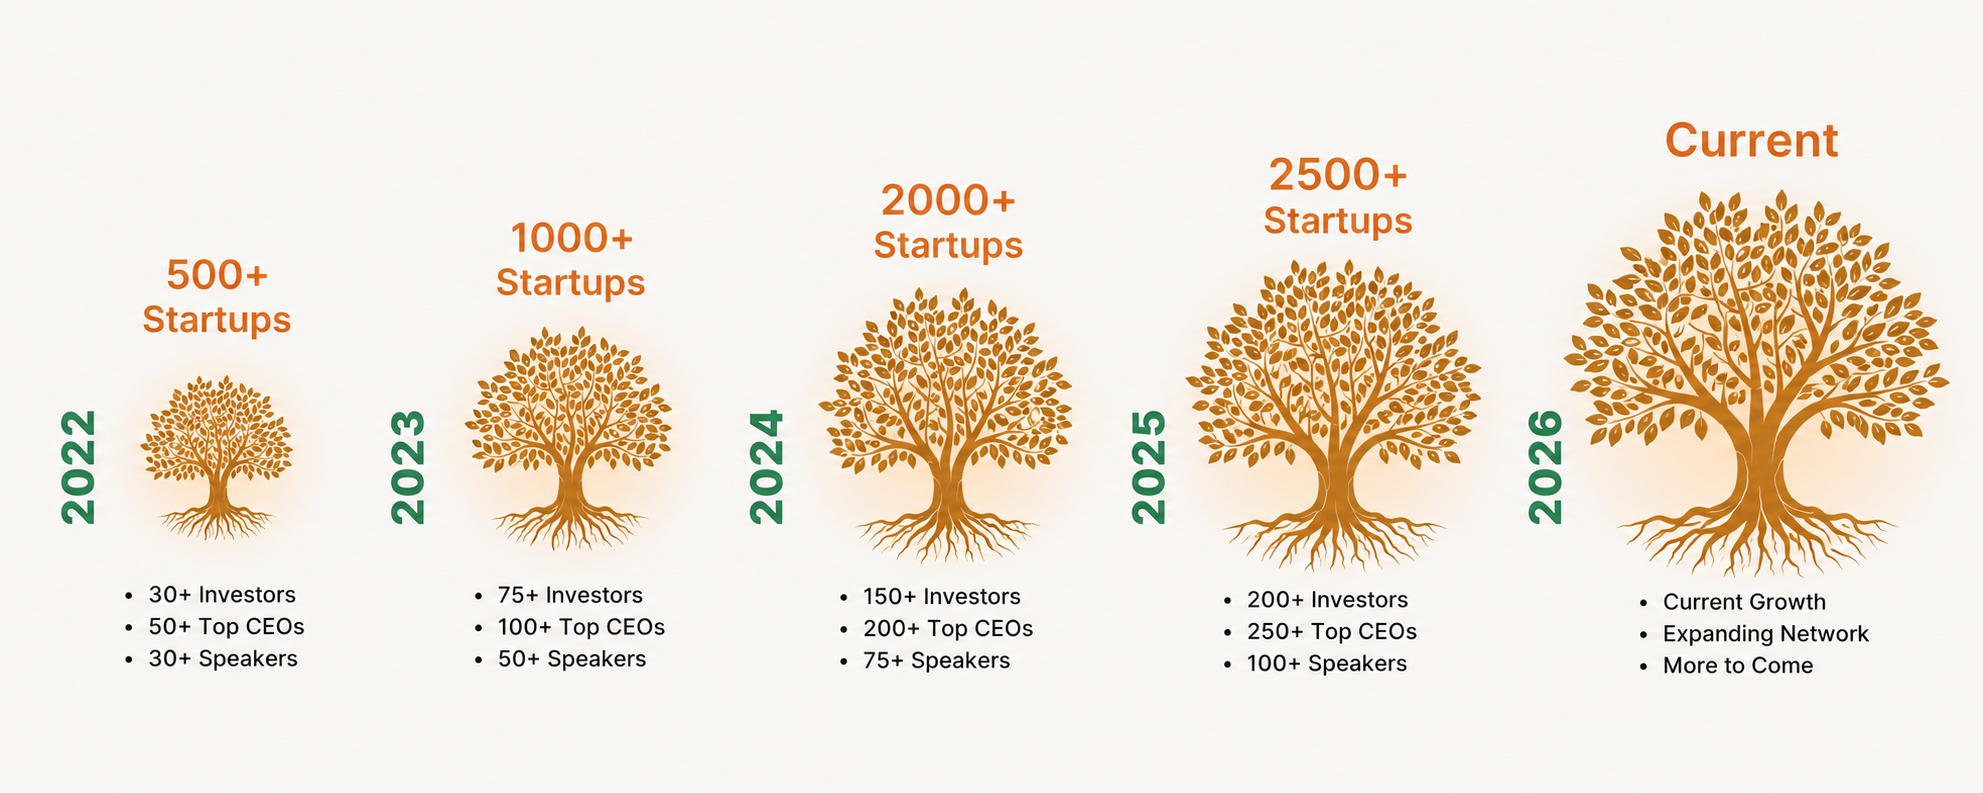
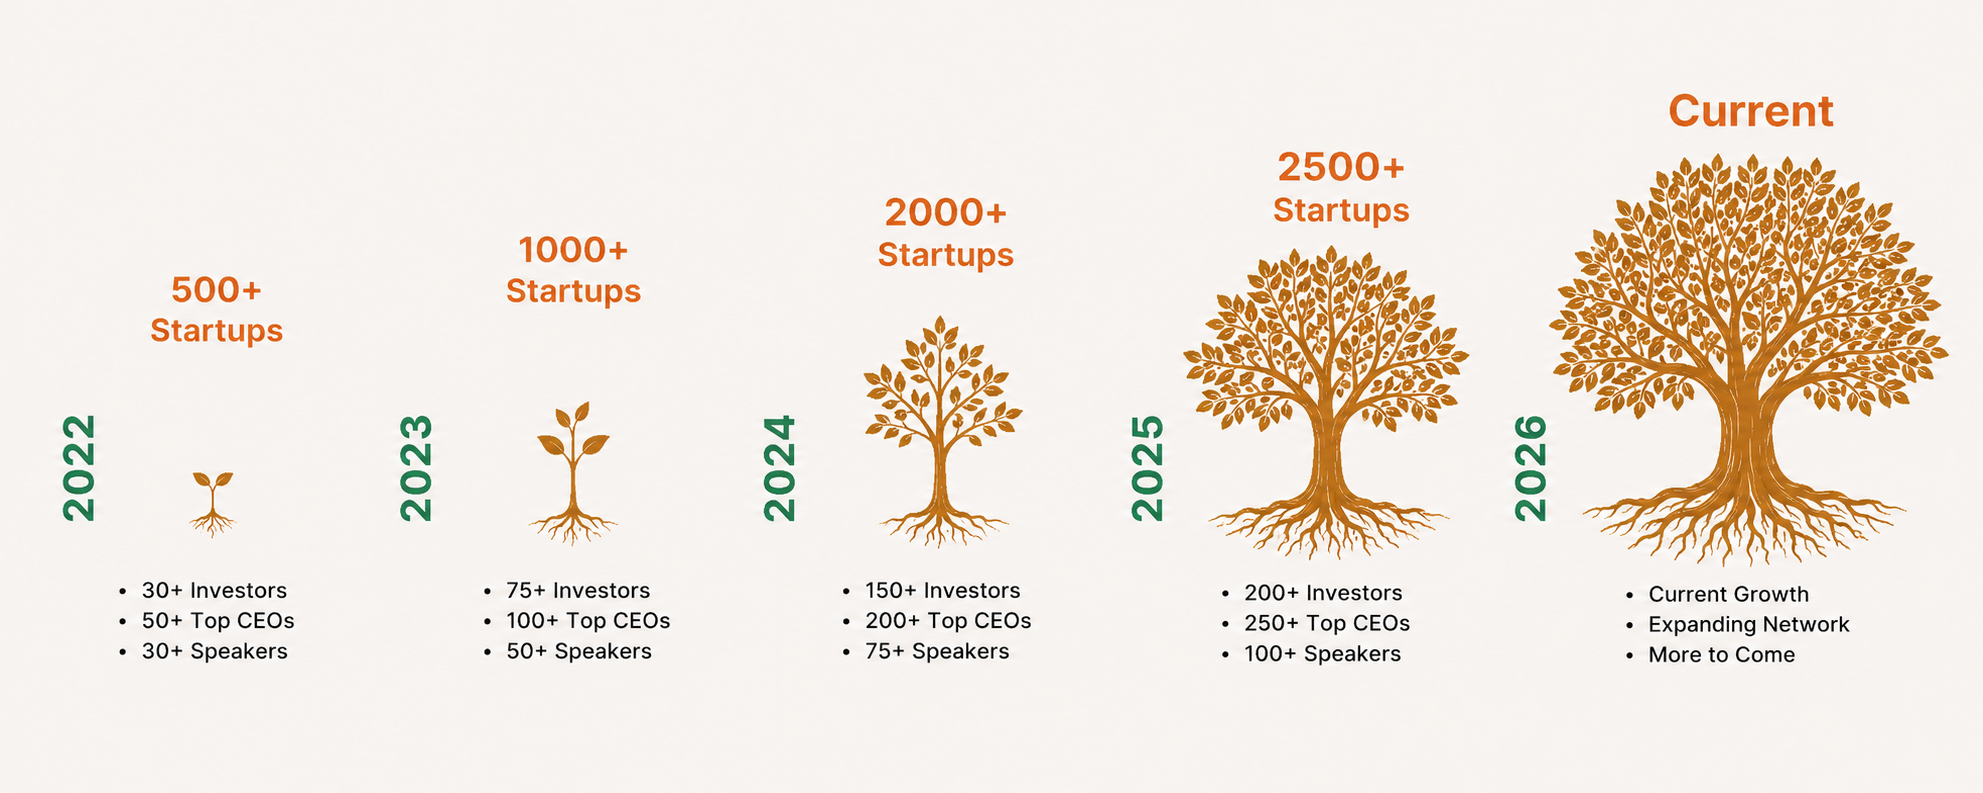
feat: implement AboutUs page with stats, team showcase, and ISF mission content

diff --git a/src/pages/info/AboutUs.tsx b/src/pages/info/AboutUs.tsx
@@ -224,11 +224,11 @@ export function AboutUs() {
 
             {/* Image on Right */}
             <div className="flex justify-center items-center w-full">
-              <div className="relative p-3 sm:p-5 bg-white rounded-3xl border border-slate-200/80 shadow-md hover:shadow-xl transition-all duration-300 max-w-lg lg:max-w-xl w-full">
+              <div className="relative p-2 sm:p-3 bg-white rounded-3xl border border-slate-200/80 shadow-md hover:shadow-xl transition-all duration-300 max-w-xl lg:max-w-2xl w-full">
                 <img 
                   src={getImageUrl("/assets/about-us/about-isf.svg")} 
                   alt="What is International Startup Foundation" 
-                  className="w-full h-auto object-contain max-h-[460px] sm:max-h-[480px]" 
+                  className="w-full h-auto object-contain max-h-[550px]" 
                 />
               </div>
             </div>
@@ -243,12 +243,12 @@ export function AboutUs() {
           <div className="grid grid-cols-1 lg:grid-cols-2 gap-12 items-center">
             
             {/* Image on Left */}
-            <div className="order-2 lg:order-1 flex justify-center items-center">
-              <div className="relative rounded-3xl overflow-hidden shadow-xl max-w-md w-full border-4 border-white">
+            <div className="order-2 lg:order-1 flex justify-center items-center w-full">
+              <div className="relative rounded-3xl overflow-hidden shadow-xl max-w-xl w-full border-4 border-white">
                 <img 
                   src={getImageUrl("/assets/about-us/8704.jpg")} 
                   alt="ISF Team Gathering" 
-                  className="w-full h-auto object-cover max-h-[350px]" 
+                  className="w-full h-auto object-cover max-h-[420px]" 
                 />
               </div>
             </div>
@@ -273,7 +273,7 @@ export function AboutUs() {
 
       {/* 2. Quick Stats Section */}
       <section className="py-16 bg-[#f9f9f9] border-b border-gray-200">
-        <div className="container-custom px-4">
+        <div className="container-custom px-4 max-w-6xl mx-auto">
           <div className="text-center space-y-3 mb-10">
             <h2 className="text-2xl md:text-3xl font-extrabold font-inter tracking-tight uppercase text-[#111111]">Quick Stats</h2>
             <p className="text-xs text-[#666666] font-semibold uppercase tracking-wider">Our ISF Ecosystem Numbers</p>
@@ -293,12 +293,16 @@ export function AboutUs() {
             ))}
           </div>
 
-          <div className="max-w-5xl mx-auto bg-white p-4 md:p-6 rounded-3xl border border-gray-150 shadow-[0_20px_50px_rgba(0,0,0,0.06)] hover:shadow-[0_20px_50px_rgba(0,0,0,0.12)] transition-shadow duration-300">
+          <div className="max-w-6xl mx-auto bg-white p-3 sm:p-5 rounded-3xl border border-gray-150 shadow-[0_20px_50px_rgba(0,0,0,0.06)] hover:shadow-[0_20px_50px_rgba(0,0,0,0.12)] transition-shadow duration-300 flex flex-col items-center space-y-4">
              <img 
                src={getImageUrl("/assets/about-us/about-ISF-1024x499.png")} 
-               alt="ISF Ecosystem Growth Timeline (2022 - 2024)" 
-               className="w-full rounded-2xl object-contain" 
+               alt="Startups Engaged Timeline" 
+               className="w-full h-auto rounded-2xl object-contain max-h-[650px]" 
              />
+             <div className="inline-flex items-center gap-2 bg-[#FAF8F5] border border-gray-200/90 px-6 py-2 rounded-full text-xs md:text-sm font-extrabold text-[#0C3E2B] uppercase tracking-widest shadow-2xs">
+               <span className="w-2 h-2 rounded-full bg-isf-orange"></span>
+               <span>Startups Engaged</span>
+             </div>
           </div>
         </div>
       </section>
